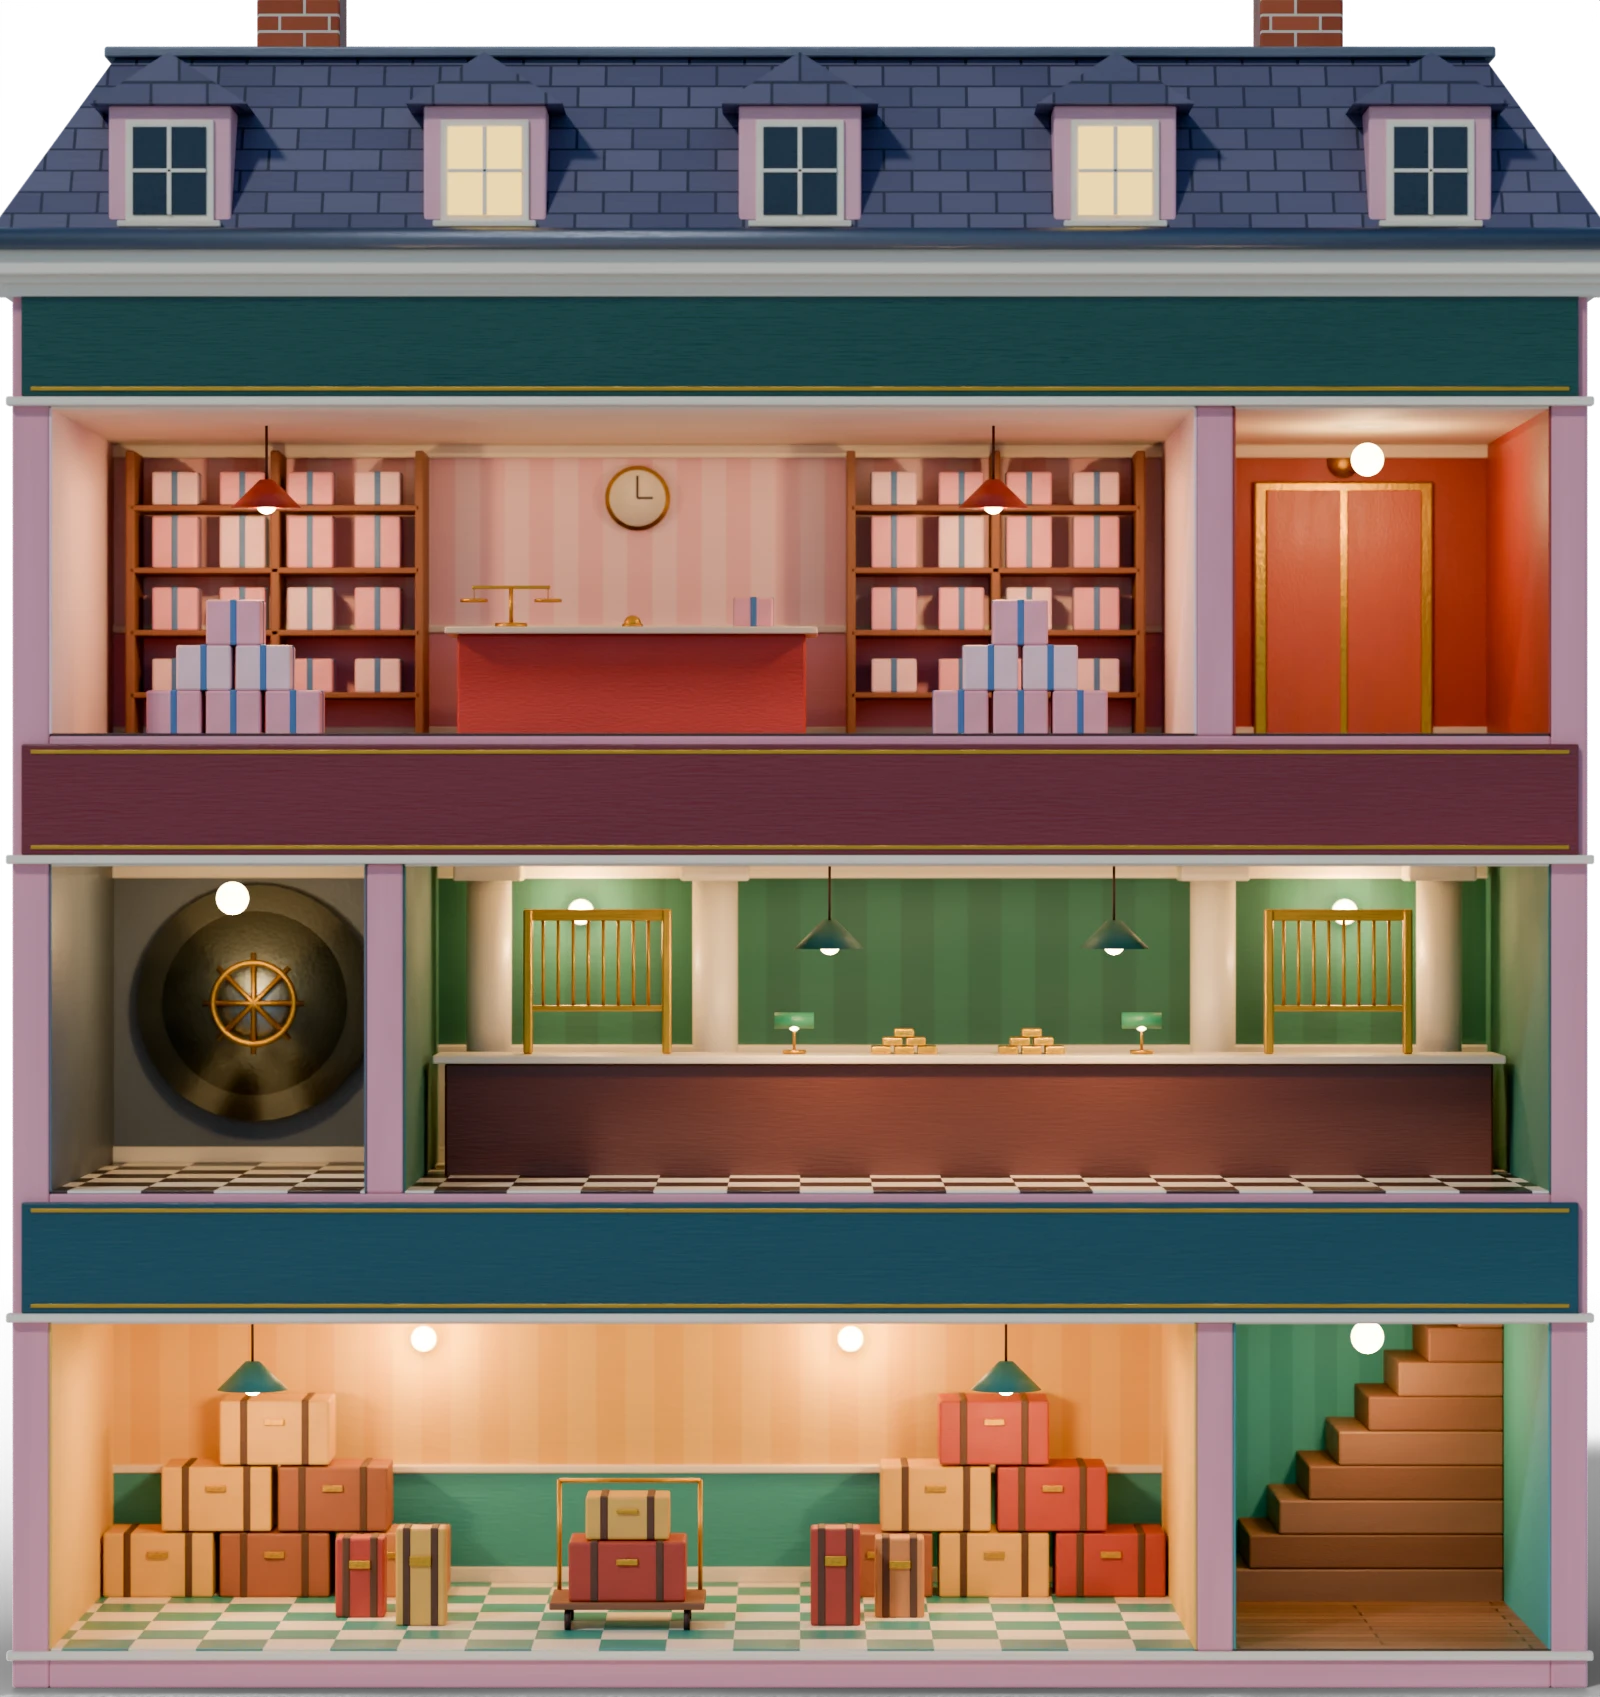
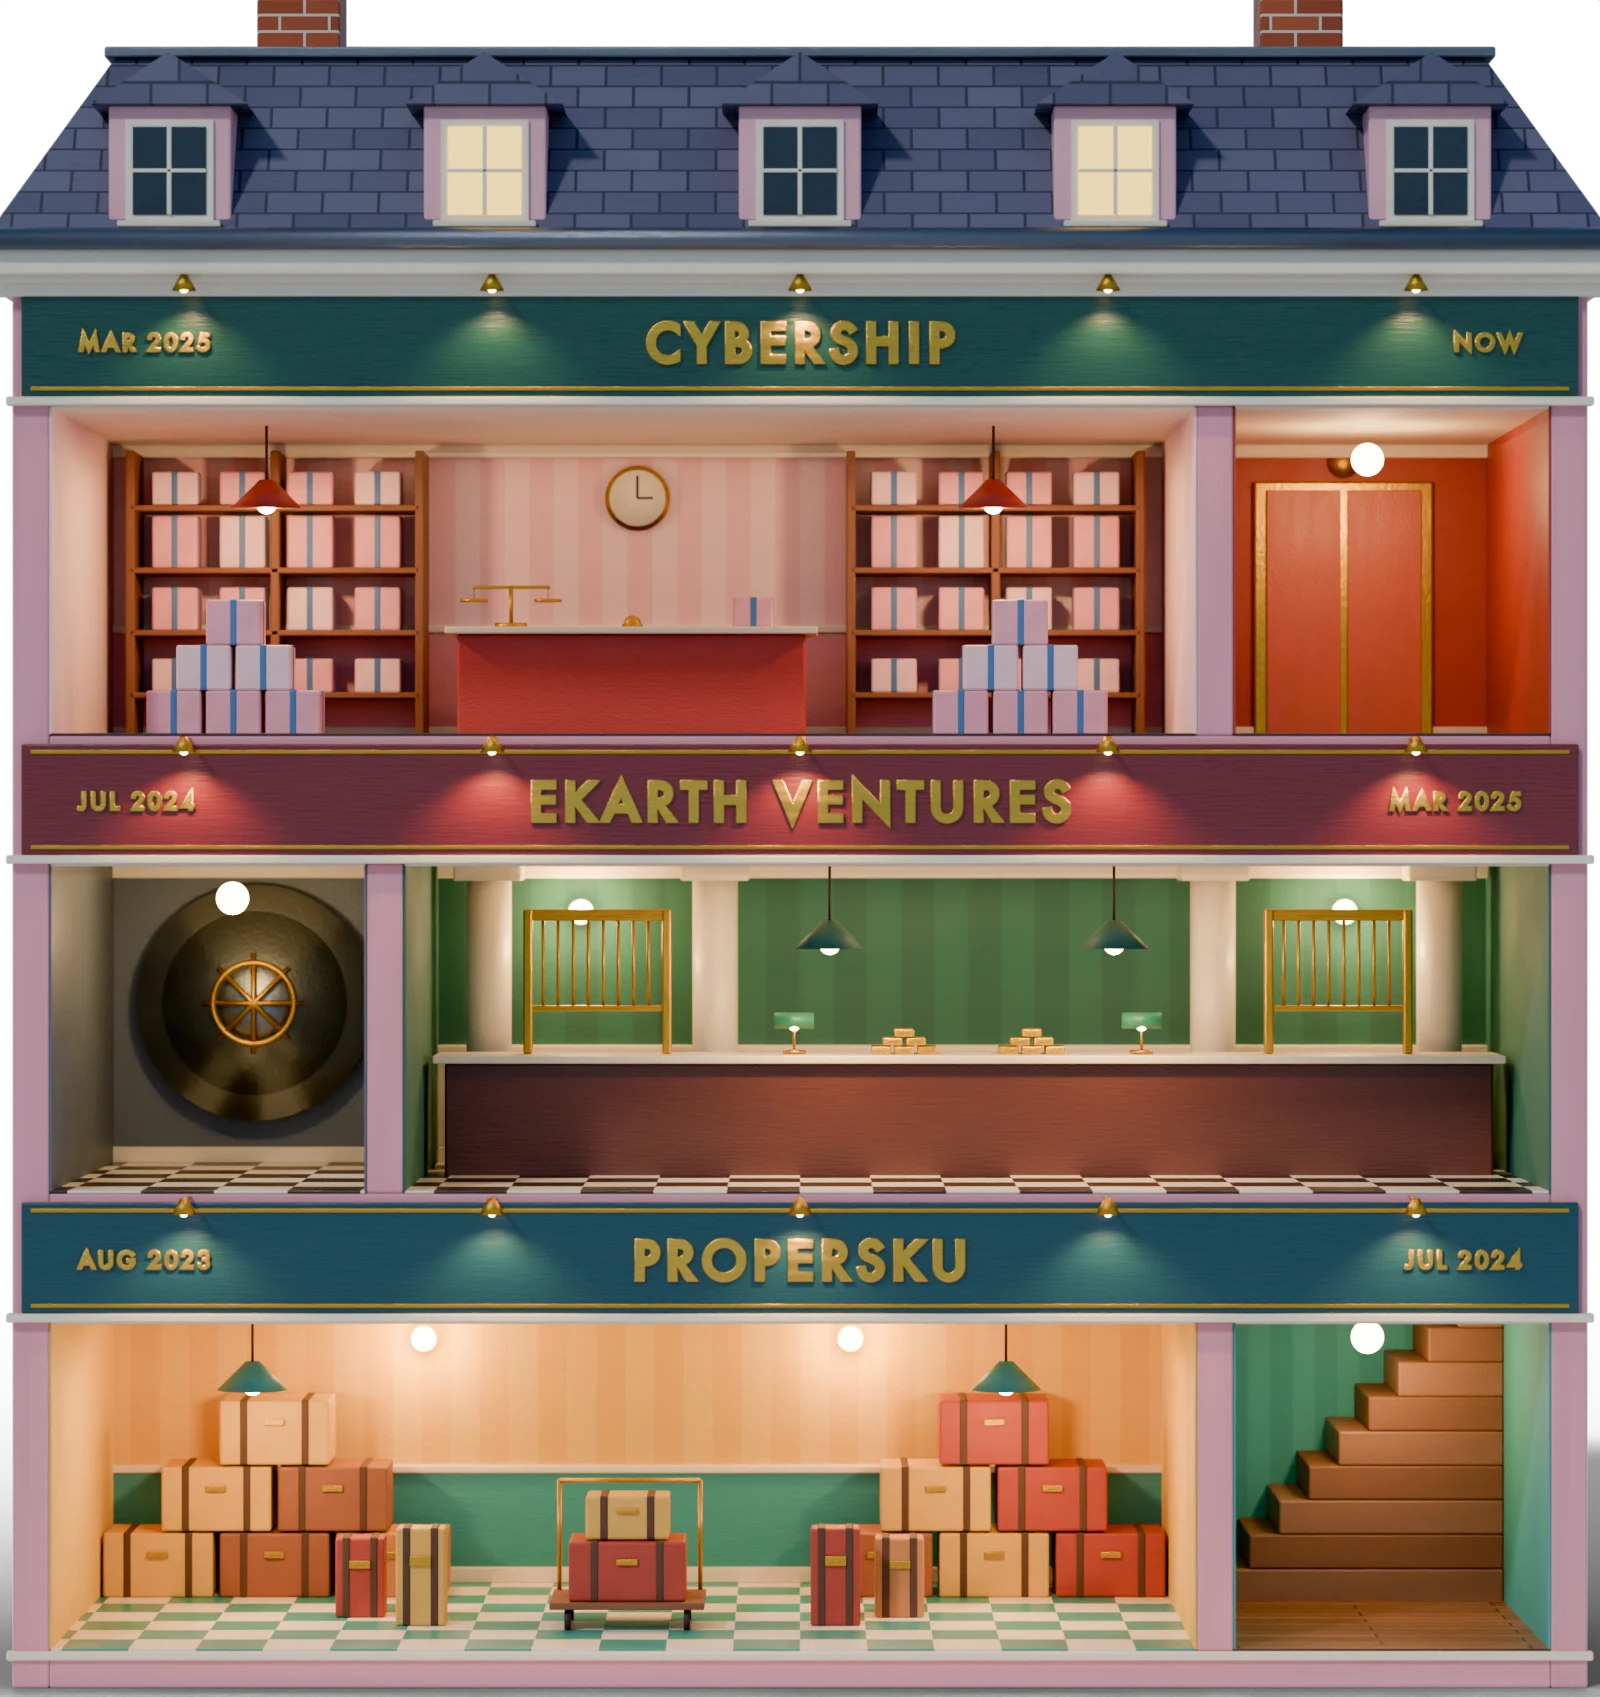
feat: fix the jobs to the building's boards in raised gilt letters, under a row of sign lamps
The lettering is modelled and lit with the building, so the page no longer sets type over the
picture. It lists the jobs again for whoever cannot see it.

diff --git a/src/components/Dollhouse.tsx b/src/components/Dollhouse.tsx
@@ -4,55 +4,34 @@ type DollhouseProps = {
   roles: Role[]
 }
 
-/** The render's width and its height, in the model's metres. */
-const WIDTH = 13.9
-const HEIGHT = 14.75
-
-/**
- * Where the middle of each floor's board falls down the render, top floor first, as a percentage of its
- * height, and how far in from either side a board starts. They come from the measures in
- * studio/dollhouse.py.
- */
-const boards = [21.86, 47.29, 72.71]
-const INSET = 4.2
+/** The render's size in pixels. */
+const WIDTH = 1600
+const HEIGHT = 1697
 
 /**
  * The building (studio/dollhouse.py): a model of a house cut open at the front, a floor for each job,
- * newest at the top. Over each floor a painted board runs across the front, as over a shop, and the job is
- * lettered on it in gilt: the company in the middle, and the month it began and the month it ended at
- * either end. The model has three floors, so it shows the three newest jobs.
+ * newest at the top. Over each floor a painted board runs across the front, as over a shop, with the job
+ * fixed to it in raised gilt letters under a row of lamps. The lettering is in the picture, so the jobs
+ * are listed again here for whoever cannot see it.
  */
 export function Dollhouse({ roles }: DollhouseProps) {
   return (
-    <div className="@container relative">
+    <>
       <img
         src="/objects/dollhouse.webp"
-        alt="A doll's house with its front off, three floors under a slate roof: a parcel room shelved with pink cake boxes, a banking hall with marble columns and a vault, and a dispatch room stacked with trunks."
-        width={1600}
-        height={Math.round((1600 * HEIGHT) / WIDTH)}
+        alt="A doll's house with its front off, three floors under a slate roof: a parcel room shelved with pink cake boxes, a banking hall with marble columns and a vault, and a dispatch room stacked with trunks. A signboard over each floor names a company."
+        width={WIDTH}
+        height={HEIGHT}
         draggable={false}
         className="block h-auto w-full select-none"
       />
-      <ol>
-        {roles.slice(0, boards.length).map((role, i) => {
-          const [from, to] = role.period.split(' to ')
-
-          return (
-            <li
-              key={`${role.org}-${role.period}`}
-              className="absolute mt-[0.45cqw] grid -translate-y-1/2 grid-cols-[1fr_auto_1fr] items-center gap-[2cqw] px-[3cqw] text-[#ecc66a] uppercase"
-              style={{ top: `${boards[i]}%`, left: `${INSET}%`, right: `${INSET}%` }}
-            >
-              <span className="text-[1.75cqw] leading-none font-semibold tracking-[0.24em]">{from}</span>
-              <h3 className="text-[3.7cqw] leading-none font-bold tracking-[0.12em] [text-shadow:0_0.04em_0_rgb(0_0_0/0.35)]">{role.org}</h3>
-              <span className="text-right text-[1.75cqw] leading-none font-semibold tracking-[0.24em]">
-                {to && <span className="sr-only">to </span>}
-                {to}
-              </span>
-            </li>
-          )
-        })}
+      <ol className="sr-only">
+        {roles.map((role) => (
+          <li key={`${role.org}-${role.period}`}>
+            {role.org}, {role.period}
+          </li>
+        ))}
       </ol>
-    </div>
+    </>
   )
 }

diff --git a/studio/dollhouse.py b/studio/dollhouse.py
@@ -5,13 +5,14 @@
     bottom   a dispatch room: trunks stacked and strapped, a trolley, and the stairs
 
 Each floor is one long room and one narrow one, and they change sides from floor to floor. Over each floor
-a painted board runs across the front, as over a shop, and is left blank: the page letters the company's
-name on it. Run from the repository root:
+a painted board runs across the front, as over a shop, with the job fixed to it in raised gilt letters: the
+company in the middle, and the month it began and the month it ended at either end. Run from the
+repository root:
 
     blender -b --factory-startup -P studio/dollhouse.py -- [--scale 0.5] [--samples 128]
 
-Writes public/objects/dollhouse.webp, lit from the front and cut out from its background. The page
-(src/components/Dollhouse.tsx) places its lettering by the measures below, so keep the two in step.
+Writes public/objects/dollhouse.webp, lit from the front and cut out from its background. The lettering
+is JOBS below, which has to say what experience says in src/content.ts.
 """
 
 import math
@@ -34,8 +35,15 @@ SAMPLES = int(option("--samples", 128))
 
 # The building, in metres. A long room, a narrow one, and the walls and floors between them.
 LONG, NARROW, WALL, HIGH, SLAB, DEEP = 9.4, 2.6, 0.3, 2.7, 0.3, 4.2
-# Over each floor, across the whole front, is a painted board, as over a shop. The page letters them.
+# Over each floor, across the whole front, is a painted board, as over a shop.
 FASCIA = 1.05
+# What the boards say, ground floor first: the month the job began, the company, and the month it ended.
+JOBS = (
+    ("Aug 2023", "ProperSKU", "Jul 2024"),
+    ("Jul 2024", "Ekarth Ventures", "Mar 2025"),
+    ("Mar 2025", "Cybership", "Now"),
+)
+FUTURA = "/System/Library/Fonts/Supplemental/Futura.ttc"
 HALF = (LONG + NARROW + 3 * WALL) / 2
 TOP = SLAB + 3 * (HIGH + FASCIA)
 EAVE, RIDGE = 0.3, 1.6
@@ -205,6 +213,20 @@ def ball(x, y, z, radius, material):
     bpy.ops.object.shade_smooth()
 
 
+def lettered(words, x, z, size, align="CENTER", weight=0.0):
+    """Raised letters fixed to the front of a board: capitals, spaced out, standing a little proud of it."""
+    bpy.ops.object.text_add(location=(x, -0.075, z), rotation=(math.pi / 2, 0, 0))
+    text = bpy.context.object.data
+    text.body = words.upper()
+    if os.path.exists(FUTURA):
+        text.font = bpy.data.fonts.load(FUTURA, check_existing=True)
+    text.size, text.space_character = size, 1.16
+    text.align_x, text.align_y = align, "CENTER"
+    # The face is a medium, and a sign's letters are cut fatter.
+    text.offset, text.extrude, text.bevel_depth, text.bevel_resolution = weight, 0.022, 0.006, 2
+    bpy.context.object.data.materials.append(GILT)
+
+
 def lamp(x, y, z, watts, across, colour="#ffd9a0"):
     bpy.ops.object.light_add(type="AREA", location=(x, y, z))
     light = bpy.context.object.data
@@ -212,6 +234,7 @@ def lamp(x, y, z, watts, across, colour="#ffd9a0"):
 
 
 PINK, PLASTER, CREAM, BRASS = paint("#e2939f", 0.75), paint("#eaa7b0", 0.75), paint("#f1e4c9", 0.7), paint("#c9982f", 0.3, 1.0)
+GILT = paint("#e0b040", 0.24, 1.0)
 WOOD, DARK, STEEL = paint("#7a4a2e"), paint("#3b1f1a"), paint("#aeb8b8", 0.35, 1.0)
 BULB = paint("#ffe2a8", glow=30)
 BOARDS = laid("#8a5a3c", "#6f4429", "#3a2416", 2.4, 0.22, "floor", 0.4, 0.35)
@@ -421,6 +444,22 @@ for storey in range(3):
     for z in (foot + 0.12, foot + FASCIA - 0.15):
         box(-HALF + 0.16, HALF - 0.16, -0.085, -0.07, z, z + 0.03, BRASS)
     box(-HALF - 0.04, HALF + 0.04, -0.1, 0.02, foot, foot + 0.07, CREAM)
+    began, company, ended = JOBS[storey]
+    middle = foot + FASCIA / 2 - 0.01
+    lettered(company, 0, middle, 0.56, weight=0.012)
+    lettered(began, -HALF + 0.55, middle, 0.25, "LEFT", 0.005)
+    lettered(ended, HALF - 0.55, middle, 0.25, "RIGHT", 0.005)
+    # A row of brass lamps on arms over the board, each throwing its own pool of light down the paint.
+    head = foot + FASCIA - 0.03
+    for i in range(5):
+        x = (i - 2) * 2.5
+        rod(x, -0.2, head, 0.014, 0.42, BRASS, "Y")
+        rod(x, -0.42, head - 0.05, 0.1, 0.13, BRASS, top=0.03)
+        ball(x, -0.42, head - 0.1, 0.035, BULB)
+        bpy.ops.object.light_add(type="SPOT", location=(x, -0.42, head - 0.13), rotation=(math.radians(16), 0, 0))
+        spot = bpy.context.object.data
+        spot.energy, spot.spot_size, spot.spot_blend, spot.shadow_soft_size = 260, math.radians(115), 0.7, 0.03
+        spot.color = linear("#ffc98a")[:3]
     # The long room is on the left on the top and bottom floors, and on the right between them.
     left = LONG if storey != 1 else NARROW
     divide = -HALF + WALL + left
